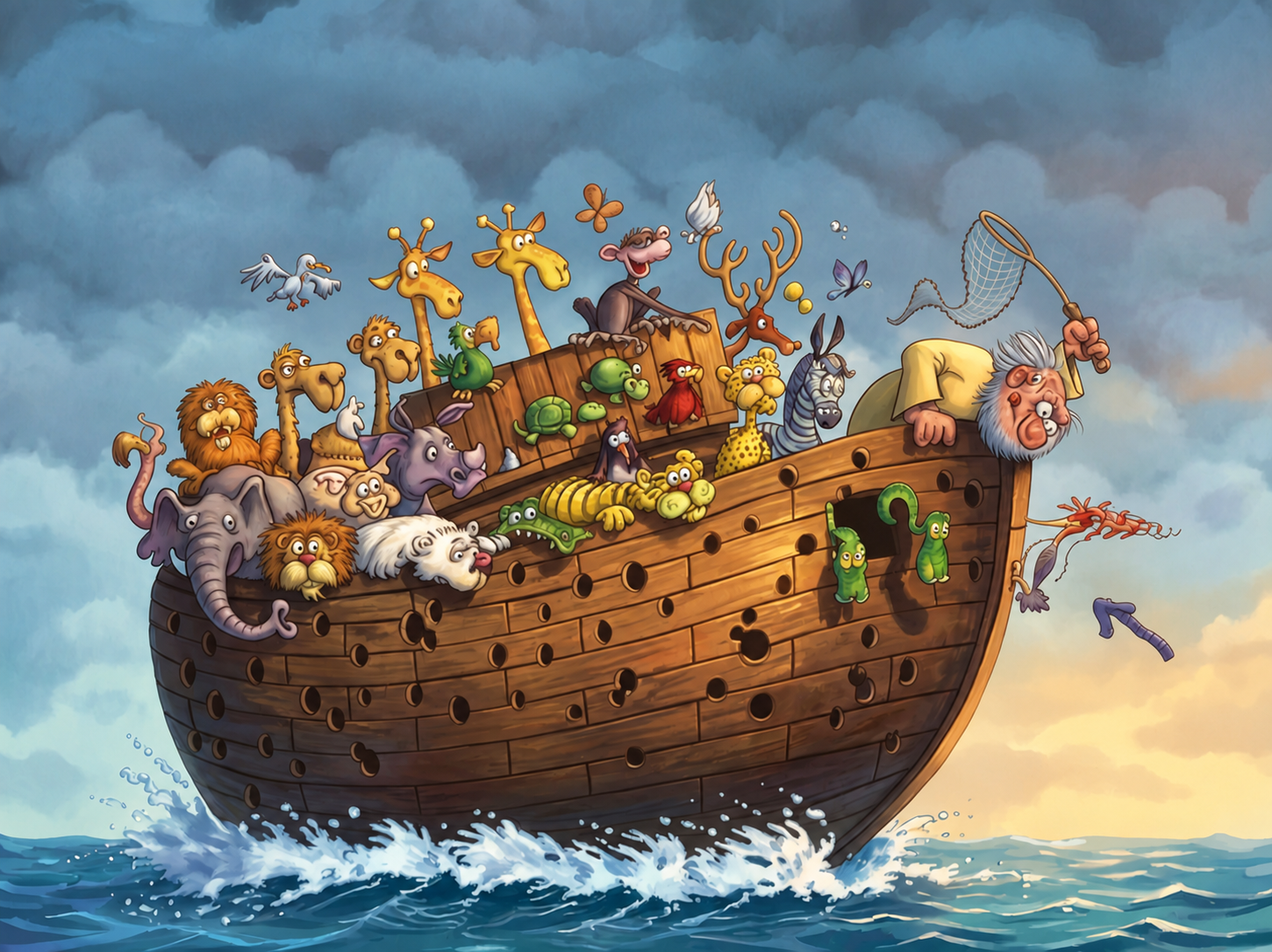
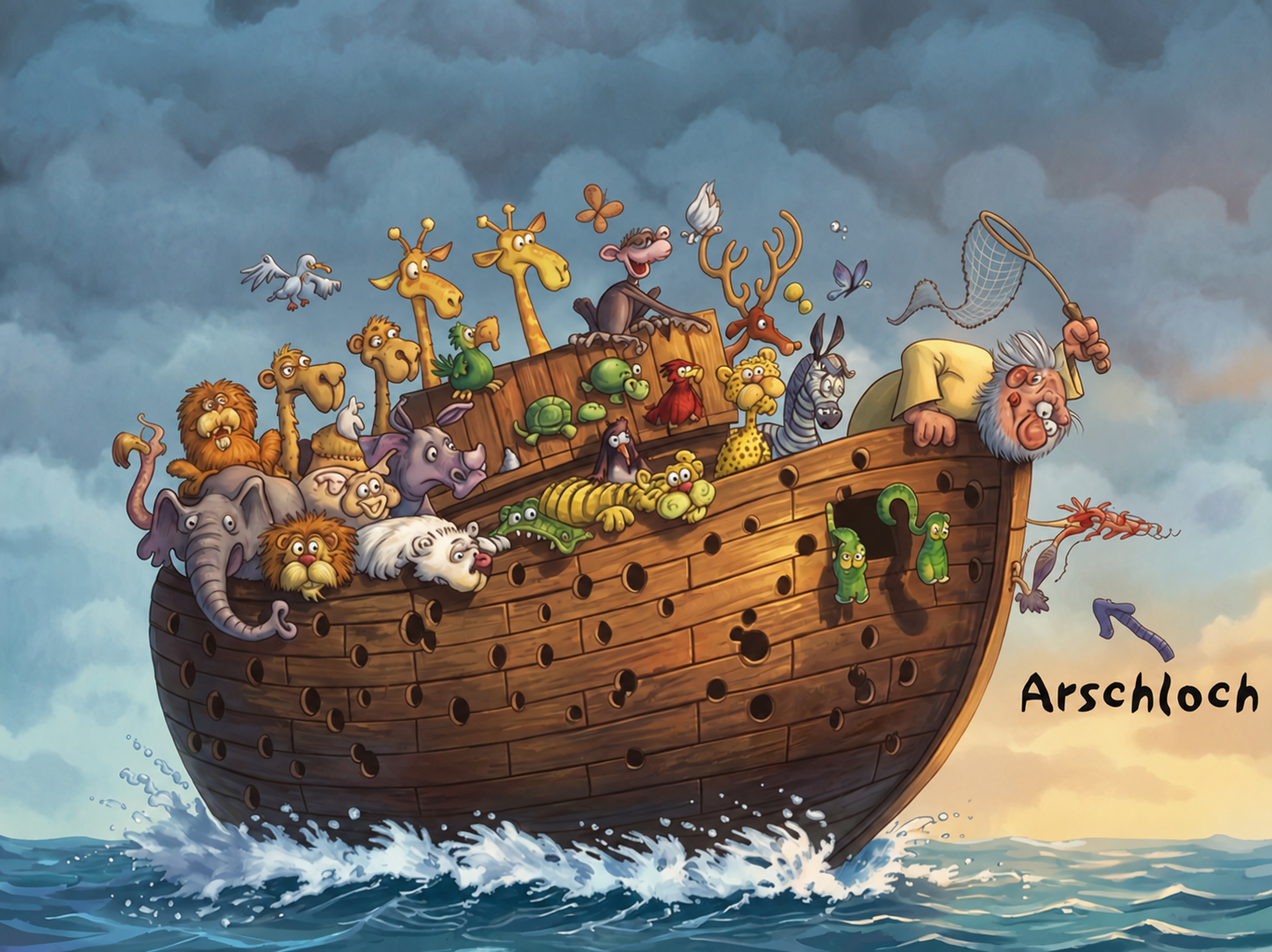
Restore ark punchline label

diff --git a/index.html b/index.html
@@ -3,6 +3,6 @@
 <link rel="canonical" href="https://realfunk.de/"><meta name="description" content="Politische Satire, fast so witzig wie Politiker. Aber gratis."><meta property="og:type" content="website"><meta property="og:title" content="RealFunk — Politische Satire"><meta property="og:description" content="Politische Satire, fast so witzig wie Politiker. Aber gratis."><meta property="og:url" content="https://realfunk.de/"><meta property="og:image" content="https://realfunk.de/images/20260911-babler-neue-wirklichkeit-hero.png"><meta name="twitter:card" content="summary_large_image"></head><body><header class="rf-header"><a class="rf-logo" href="index.html" aria-label="RealFunk Startseite">Real<span aria-hidden="true">◉</span>Funk</a><nav class="rf-nav" aria-label="Hauptnavigation"><a href="index.html#top">TOP THEMEN</a><a href="index.html#mehr">MEHR</a><a href="index.html#meldungen">MELDUNGEN</a><a href="archiv.html">ARCHIV</a><a class="rf-support" href="unterstuetzen.html">UNTERSTÜTZEN</a></nav></header>
 
 
-<main><section class="hero" id="top"><img src="images/20260911-babler-neue-wirklichkeit-hero.png" alt="KI-Satire: Andreas Babler als Kleinkind spielt vor einem Weihnachtsbaum mit einer ORF-Miniaturbühne und applaudierenden Spielfiguren"><div class="hero-copy"><span class="eyebrow">Top-Themen / Österreich</span><h1 id="hero-title">Endlich in Planung: Österreichs neue Wirklichkeit</h1><p>Der ORF soll eine „gemeinsame Wirklichkeit“ herstellen. Medienminister Andreas Babler hat bereits erklärt, wie sie aussehen soll.</p><span class="link" aria-hidden="true">Zum Artikel ↗</span></div><a class="hero-full-link" href="artikel/bablers-neue-wirklichkeit.html" aria-labelledby="hero-title"></a><div class="hero-switch" hidden><button type="button" data-hero-prev aria-label="Vorheriges Top-Thema">←</button><span data-hero-position></span><button type="button" data-hero-next aria-label="Nächstes Top-Thema">→</button></div><script type="application/json" id="hero-rotation-data">[{"file": "bablers-neue-wirklichkeit.html", "kick": "Österreich", "ttl": "Endlich in Planung: Österreichs neue Wirklichkeit", "img": "20260911-babler-neue-wirklichkeit-hero.png", "alt": "KI-Satire: Andreas Babler als Kleinkind spielt vor einem Weihnachtsbaum mit einer ORF-Miniaturbühne und applaudierenden Spielfiguren", "subtitle": "Der ORF soll eine „gemeinsame Wirklichkeit“ herstellen. Medienminister Andreas Babler hat bereits erklärt, wie sie aussehen soll."}, {"file": "cdu-insider-packt-aus.html", "kick": "Deutschland", "ttl": "EXKLUSIV: Ein CDU-Insider packt aus", "img": "20260910-merz-cdu-insider.jpg", "alt": "Friedrich Merz spricht am Rednerpult des Deutschen Bundestages", "subtitle": "Ein CDU-Insider hat RealFunk ein vertrauliches Paket zugespielt. Darin befindet sich nicht nur eine bislang unveröffentlichte Videosequenz aus Friedrich Merz’ Bundestagsrede vom 9. September, sondern auch das streng geheime interne Presse- und Kommunikationskit der CDU. Wir veröffentlichen beides exklusiv."}, {"file": "pisa-beweist-politik-wirkt.html", "kick": "Deutschland", "ttl": "PISA beweist: Politik wirkt", "img": "20260909-pisa-politik-wirkt.png", "alt": "KI-Satire: Ein Lehrer erklärt einer Schulklasse mit Tablets, ihre letzte Hoffnung sei künstliche Intelligenz", "subtitle": "Deutschland erreicht neue Bildungstiefstwerte. Die Politik reagiert."}]</script></section><section class="small-heroes" aria-label="Weitere Top-Themen"><a class="mini-hero" href="artikel/cdu-insider-packt-aus.html"><img src="images/20260910-merz-cdu-insider.jpg" alt="Friedrich Merz spricht am Rednerpult des Deutschen Bundestages" loading="lazy"><div><span>Deutschland</span><h2>EXKLUSIV: Ein CDU-Insider packt aus</h2></div></a><a class="mini-hero" href="artikel/pisa-beweist-politik-wirkt.html"><img src="images/20260909-pisa-politik-wirkt.png" alt="KI-Satire: Ein Lehrer erklärt einer Schulklasse mit Tablets, ihre letzte Hoffnung sei künstliche Intelligenz" loading="lazy"><div><span>Deutschland</span><h2>PISA beweist: Politik wirkt</h2></div></a><a class="mini-hero" href="artikel/von-der-leyen-fordert-neuwahl.html"><img src="images/20260907vonderleyen-neuwahl.png" alt="KI-Satire: Ursula von der Leyen entreißt dem verblüfften Ulrich Siegmund auf einer AfD-Wahlparty den Siegerblumenstrauß" loading="lazy"><div><span>EU</span><h2>Von der Leyen fordert Neuwahl</h2></div></a><a class="mini-hero" href="artikel/spahn-schmeisst-den-haushalt.html"><img src="images/20260906spahn-haushalt.png" alt="KI-Satire: Jens Spahn steht mit Schürze und Mehl unter der Nase in einer Küche" loading="lazy"><div><span>Deutschland</span><h2>Spahn schmeißt den Haushalt</h2></div></a></section><section class="more-grid-section" id="mehr"><div class="section-head"><h2>Mehr RealFunk</h2><p>Lesen, ausprobieren, ansehen.</p></div><div class="format-tiles"><a class="format-tile lex-tile" href="lexikon.html" target="_blank" rel="noopener"><div class="lex-image"><img src="images/merz-gebrochene-versprechen.jpg" alt="KI-Satire: Friedrich Merz als Wahrheitsfritz mit langer Pinocchio-Nase"><span>KI-SATIRE</span></div><div class="tile-copy"><span class="eyebrow">Satire · Interaktiv</span><h3>Das Politikerlexikon</h3><p>Politische Sprüche. Direkt in Klartext übersetzt.</p><span class="tile-cta">Übersetzer ausprobieren →</span></div></a><a class="format-tile daily-picture-tile" href="bild-des-tages/2026-09-12-vollstaendig-besetzt.html" target="_blank" rel="noopener"><img src="images/bild-des-tages-arche-vollstaendig-besetzt.png" alt="Cartoon: Eine Arche voller Tiere fährt über das Meer; am Bug hängt ein Mann mit einem Kescher" loading="lazy"><div class="tile-copy"><span class="eyebrow">Bild des Tages</span><h3>Vollständig besetzt</h3><p>Auch die Arche hatte offenbar keine strengere Passagierkontrolle.</p><span class="tile-cta">Bild ansehen →</span></div></a><a class="format-tile" href="stempelautomat.html" target="_blank" rel="noopener"><img src="images/stempelautomat-og.jpg" alt="Der Ben-Stempelautomat" loading="lazy"><div class="tile-copy"><span class="eyebrow">Satire · Interaktiv</span><h3>Der Ben-Stempelautomat</h3><p>Knopf drücken. Ben stempeln. Originalwortlaut prüfen.</p><span class="tile-cta">Ausprobieren →</span></div></a><a class="format-tile" href="satirevideo.html" target="_blank" rel="noopener"><img src="images/satirevideo-poster.jpg" alt="Satirevideo der Woche" loading="lazy"><div class="tile-copy"><span class="eyebrow">Satire · KI-Video</span><h3>Satirevideo der Woche</h3><p>Der „anonyme Insider“ aus dem Kanzleramt. Natürlich verfremdet.</p><span class="tile-cta">Ansehen →</span></div></a></div></section><section class="top-stories" id="meldungen"><div class="section-head"><h2>Meldungen</h2><p>Weitere Meldungen aus den Ressorts.</p></div><div class="story-list"><a href="artikel/experten-warnen-vor-weniger-problemen.html"><span class="story-topic">Deutschland</span><strong>Experten warnen vor weniger Problemen</strong><time datetime="2026-09-06">06.09.2026</time><span aria-hidden="true">↗</span></a><a href="artikel/von-der-leyen-gemeinschaftskonto.html"><span class="story-topic">EU</span><strong>Von der Leyen macht jedes Konto zum Gemeinschaftskonto</strong><time datetime="2026-09-01">01.09.2026</time><span aria-hidden="true">↗</span></a><a href="artikel/microsoft-trennt-oerr-diagramme-von-zahlen.html"><span class="story-topic">ÖRR</span><strong>ÖRR PlugIn trennt Diagramme von Zahlen</strong><time datetime="2026-09-04">04.09.2026</time><span aria-hidden="true">↗</span></a><a href="artikel/derad-13-millionen-spaeter.html"><span class="story-topic">Österreich</span><strong>1,3 Millionen später</strong><time datetime="2026-08-29">29.08.2026</time><span aria-hidden="true">↗</span></a><a href="artikel/das-letzte-wort-hat-der-richter.html"><span class="story-topic">Ausland</span><strong>Wer klagt, bleibt länger</strong><time datetime="2026-07-11">11.07.2026</time><span aria-hidden="true">↗</span></a><a href="artikel/wie-exakt-sind-umfragen.html"><span class="story-topic">Durchschaut</span><strong>Wie exakt sind Umfragen?</strong><time datetime="2026-08-28">28.08.2026</time><span aria-hidden="true">↗</span></a><a href="artikel/operation-360-grad.html"><span class="story-topic">Kurzartikel</span><strong>Operation 360 Grad*</strong><time datetime="2026-08-25">25.08.2026</time><span aria-hidden="true">↗</span></a></div></section></main>
+<main><section class="hero" id="top"><img src="images/20260911-babler-neue-wirklichkeit-hero.png" alt="KI-Satire: Andreas Babler als Kleinkind spielt vor einem Weihnachtsbaum mit einer ORF-Miniaturbühne und applaudierenden Spielfiguren"><div class="hero-copy"><span class="eyebrow">Top-Themen / Österreich</span><h1 id="hero-title">Endlich in Planung: Österreichs neue Wirklichkeit</h1><p>Der ORF soll eine „gemeinsame Wirklichkeit“ herstellen. Medienminister Andreas Babler hat bereits erklärt, wie sie aussehen soll.</p><span class="link" aria-hidden="true">Zum Artikel ↗</span></div><a class="hero-full-link" href="artikel/bablers-neue-wirklichkeit.html" aria-labelledby="hero-title"></a><div class="hero-switch" hidden><button type="button" data-hero-prev aria-label="Vorheriges Top-Thema">←</button><span data-hero-position></span><button type="button" data-hero-next aria-label="Nächstes Top-Thema">→</button></div><script type="application/json" id="hero-rotation-data">[{"file": "bablers-neue-wirklichkeit.html", "kick": "Österreich", "ttl": "Endlich in Planung: Österreichs neue Wirklichkeit", "img": "20260911-babler-neue-wirklichkeit-hero.png", "alt": "KI-Satire: Andreas Babler als Kleinkind spielt vor einem Weihnachtsbaum mit einer ORF-Miniaturbühne und applaudierenden Spielfiguren", "subtitle": "Der ORF soll eine „gemeinsame Wirklichkeit“ herstellen. Medienminister Andreas Babler hat bereits erklärt, wie sie aussehen soll."}, {"file": "cdu-insider-packt-aus.html", "kick": "Deutschland", "ttl": "EXKLUSIV: Ein CDU-Insider packt aus", "img": "20260910-merz-cdu-insider.jpg", "alt": "Friedrich Merz spricht am Rednerpult des Deutschen Bundestages", "subtitle": "Ein CDU-Insider hat RealFunk ein vertrauliches Paket zugespielt. Darin befindet sich nicht nur eine bislang unveröffentlichte Videosequenz aus Friedrich Merz’ Bundestagsrede vom 9. September, sondern auch das streng geheime interne Presse- und Kommunikationskit der CDU. Wir veröffentlichen beides exklusiv."}, {"file": "pisa-beweist-politik-wirkt.html", "kick": "Deutschland", "ttl": "PISA beweist: Politik wirkt", "img": "20260909-pisa-politik-wirkt.png", "alt": "KI-Satire: Ein Lehrer erklärt einer Schulklasse mit Tablets, ihre letzte Hoffnung sei künstliche Intelligenz", "subtitle": "Deutschland erreicht neue Bildungstiefstwerte. Die Politik reagiert."}]</script></section><section class="small-heroes" aria-label="Weitere Top-Themen"><a class="mini-hero" href="artikel/cdu-insider-packt-aus.html"><img src="images/20260910-merz-cdu-insider.jpg" alt="Friedrich Merz spricht am Rednerpult des Deutschen Bundestages" loading="lazy"><div><span>Deutschland</span><h2>EXKLUSIV: Ein CDU-Insider packt aus</h2></div></a><a class="mini-hero" href="artikel/pisa-beweist-politik-wirkt.html"><img src="images/20260909-pisa-politik-wirkt.png" alt="KI-Satire: Ein Lehrer erklärt einer Schulklasse mit Tablets, ihre letzte Hoffnung sei künstliche Intelligenz" loading="lazy"><div><span>Deutschland</span><h2>PISA beweist: Politik wirkt</h2></div></a><a class="mini-hero" href="artikel/von-der-leyen-fordert-neuwahl.html"><img src="images/20260907vonderleyen-neuwahl.png" alt="KI-Satire: Ursula von der Leyen entreißt dem verblüfften Ulrich Siegmund auf einer AfD-Wahlparty den Siegerblumenstrauß" loading="lazy"><div><span>EU</span><h2>Von der Leyen fordert Neuwahl</h2></div></a><a class="mini-hero" href="artikel/spahn-schmeisst-den-haushalt.html"><img src="images/20260906spahn-haushalt.png" alt="KI-Satire: Jens Spahn steht mit Schürze und Mehl unter der Nase in einer Küche" loading="lazy"><div><span>Deutschland</span><h2>Spahn schmeißt den Haushalt</h2></div></a></section><section class="more-grid-section" id="mehr"><div class="section-head"><h2>Mehr RealFunk</h2><p>Lesen, ausprobieren, ansehen.</p></div><div class="format-tiles"><a class="format-tile lex-tile" href="lexikon.html" target="_blank" rel="noopener"><div class="lex-image"><img src="images/merz-gebrochene-versprechen.jpg" alt="KI-Satire: Friedrich Merz als Wahrheitsfritz mit langer Pinocchio-Nase"><span>KI-SATIRE</span></div><div class="tile-copy"><span class="eyebrow">Satire · Interaktiv</span><h3>Das Politikerlexikon</h3><p>Politische Sprüche. Direkt in Klartext übersetzt.</p><span class="tile-cta">Übersetzer ausprobieren →</span></div></a><a class="format-tile daily-picture-tile" href="bild-des-tages/2026-09-12-vollstaendig-besetzt.html" target="_blank" rel="noopener"><img src="images/bild-des-tages-arche-vollstaendig-besetzt.png" alt="Cartoon: Eine Arche voller Tiere fährt über das Meer; am Bug hängt ein Mann mit einem Kescher, der mit dem Wort Arschloch markiert ist" loading="lazy"><div class="tile-copy"><span class="eyebrow">Bild des Tages</span><h3>Vollständig besetzt</h3><p>Auch die Arche hatte offenbar keine strengere Passagierkontrolle.</p><span class="tile-cta">Bild ansehen →</span></div></a><a class="format-tile" href="stempelautomat.html" target="_blank" rel="noopener"><img src="images/stempelautomat-og.jpg" alt="Der Ben-Stempelautomat" loading="lazy"><div class="tile-copy"><span class="eyebrow">Satire · Interaktiv</span><h3>Der Ben-Stempelautomat</h3><p>Knopf drücken. Ben stempeln. Originalwortlaut prüfen.</p><span class="tile-cta">Ausprobieren →</span></div></a><a class="format-tile" href="satirevideo.html" target="_blank" rel="noopener"><img src="images/satirevideo-poster.jpg" alt="Satirevideo der Woche" loading="lazy"><div class="tile-copy"><span class="eyebrow">Satire · KI-Video</span><h3>Satirevideo der Woche</h3><p>Der „anonyme Insider“ aus dem Kanzleramt. Natürlich verfremdet.</p><span class="tile-cta">Ansehen →</span></div></a></div></section><section class="top-stories" id="meldungen"><div class="section-head"><h2>Meldungen</h2><p>Weitere Meldungen aus den Ressorts.</p></div><div class="story-list"><a href="artikel/experten-warnen-vor-weniger-problemen.html"><span class="story-topic">Deutschland</span><strong>Experten warnen vor weniger Problemen</strong><time datetime="2026-09-06">06.09.2026</time><span aria-hidden="true">↗</span></a><a href="artikel/von-der-leyen-gemeinschaftskonto.html"><span class="story-topic">EU</span><strong>Von der Leyen macht jedes Konto zum Gemeinschaftskonto</strong><time datetime="2026-09-01">01.09.2026</time><span aria-hidden="true">↗</span></a><a href="artikel/microsoft-trennt-oerr-diagramme-von-zahlen.html"><span class="story-topic">ÖRR</span><strong>ÖRR PlugIn trennt Diagramme von Zahlen</strong><time datetime="2026-09-04">04.09.2026</time><span aria-hidden="true">↗</span></a><a href="artikel/derad-13-millionen-spaeter.html"><span class="story-topic">Österreich</span><strong>1,3 Millionen später</strong><time datetime="2026-08-29">29.08.2026</time><span aria-hidden="true">↗</span></a><a href="artikel/das-letzte-wort-hat-der-richter.html"><span class="story-topic">Ausland</span><strong>Wer klagt, bleibt länger</strong><time datetime="2026-07-11">11.07.2026</time><span aria-hidden="true">↗</span></a><a href="artikel/wie-exakt-sind-umfragen.html"><span class="story-topic">Durchschaut</span><strong>Wie exakt sind Umfragen?</strong><time datetime="2026-08-28">28.08.2026</time><span aria-hidden="true">↗</span></a><a href="artikel/operation-360-grad.html"><span class="story-topic">Kurzartikel</span><strong>Operation 360 Grad*</strong><time datetime="2026-08-25">25.08.2026</time><span aria-hidden="true">↗</span></a></div></section></main>
 <footer class="rf-footer"><div><a class="rf-logo" href="index.html">Real<span>◉</span>Funk</a><p>Politische Satire, fast so witzig wie Politiker. Aber gratis.</p></div><nav aria-label="Weitere Informationen"><a href="ueber-realfunk.html">Über RealFunk</a><a href="impressum.html">Impressum</a><a href="datenschutz.html">Datenschutz</a><a href="feed.xml">RSS</a></nav></footer><!-- Cloudflare Web Analytics --><script defer src="https://static.cloudflareinsights.com/beacon.min.js" data-cf-beacon='{"token":"a017662ec0e94031a498c6b772dc7271"}'></script><!-- End Cloudflare Web Analytics -->
 <script defer src="hero-rotation.js?v=20260911-three"></script></body></html>

diff --git a/bild-des-tages/2026-09-12-vollstaendig-besetzt.html b/bild-des-tages/2026-09-12-vollstaendig-besetzt.html
@@ -1,2 +1,2 @@
-<!doctype html><html lang="de"><head><meta charset="utf-8"><meta name="viewport" content="width=device-width,initial-scale=1"><title>Vollständig besetzt. — Bild des Tages — RealFunk</title><link rel="stylesheet" href="../magazin.css"><link rel="stylesheet" href="../bild-des-tages.css?v=20260909"><link rel="stylesheet" href="../realfunk-shell.css?v=20260908"><link rel="canonical" href="https://realfunk.de/bild-des-tages/2026-09-12-vollstaendig-besetzt.html"><link rel="prev" href="https://realfunk.de/bild-des-tages/2026-09-09-sondervermoegen-beim-notar.html"><meta name="description" content="Auch die Arche hatte offenbar keine strengere Passagierkontrolle."><meta property="og:type" content="article"><meta property="og:title" content="Vollständig besetzt. — Bild des Tages"><meta property="og:description" content="Auch die Arche hatte offenbar keine strengere Passagierkontrolle."><meta property="og:url" content="https://realfunk.de/bild-des-tages/2026-09-12-vollstaendig-besetzt.html"><meta property="og:image" content="https://realfunk.de/images/bild-des-tages-arche-vollstaendig-besetzt.png"><meta name="twitter:card" content="summary_large_image"><meta name="twitter:title" content="Vollständig besetzt. — Bild des Tages"><meta name="twitter:description" content="Auch die Arche hatte offenbar keine strengere Passagierkontrolle."><meta name="twitter:image" content="https://realfunk.de/images/bild-des-tages-arche-vollstaendig-besetzt.png"><link rel="stylesheet" href="../realfunk-share.css?v=1"></head><body class="subpage"><header class="rf-header"><a class="rf-logo" href="../index.html" aria-label="RealFunk Startseite">Real<span aria-hidden="true">◉</span>Funk</a><nav class="rf-nav" aria-label="Hauptnavigation"><a href="../index.html#top">TOP THEMEN</a><a href="../index.html#mehr">MEHR</a><a href="../index.html#meldungen">MELDUNGEN</a><a href="../archiv.html">ARCHIV</a><a class="rf-support" href="../unterstuetzen.html">UNTERSTÜTZEN</a></nav></header><main class="daily-picture daily-detail"><div class="daily-heading"><a href="../bild-des-tages.html">← Alle Bilder des Tages</a><span class="eyebrow">BILD DES TAGES · 12.09.2026</span><h1>Vollständig besetzt.</h1><div class="rf-share" aria-label="Seite teilen"><strong>Teilen</strong><button type="button" data-native-share hidden>Teilen …</button><a href="https://api.whatsapp.com/send?text=Vollst%C3%A4ndig%20besetzt.%20%E2%80%94%20Bild%20des%20Tages%20https%3A%2F%2Frealfunk.de%2Fbild-des-tages%2F2026-09-12-vollstaendig-besetzt.html" target="_blank" rel="noopener noreferrer">WhatsApp</a><a href="https://twitter.com/intent/tweet?text=Vollst%C3%A4ndig%20besetzt.%20%E2%80%94%20Bild%20des%20Tages&amp;url=https%3A%2F%2Frealfunk.de%2Fbild-des-tages%2F2026-09-12-vollstaendig-besetzt.html" target="_blank" rel="noopener noreferrer">X</a><a href="https://www.facebook.com/sharer/sharer.php?u=https%3A%2F%2Frealfunk.de%2Fbild-des-tages%2F2026-09-12-vollstaendig-besetzt.html" target="_blank" rel="noopener noreferrer">Facebook</a><a href="mailto:?subject=Vollst%C3%A4ndig%20besetzt.%20%E2%80%94%20Bild%20des%20Tages&amp;body=https%3A%2F%2Frealfunk.de%2Fbild-des-tages%2F2026-09-12-vollstaendig-besetzt.html">E-Mail</a><button type="button" data-copy-share>Link kopieren</button><span role="status" data-share-status></span></div></div><figure><div class="daily-image-frame"><img src="../images/bild-des-tages-arche-vollstaendig-besetzt.png" alt="Cartoon: Eine Arche voller Tiere fährt über das Meer; am Bug hängt ein Mann mit einem Kescher"></div><figcaption><span class="eyebrow">DER REALFUNK-KOMMENTAR</span><p>Egal wo du bist, es gibt immer ein Arschloch.</p><p class="daily-punchline">Aus eigentlich immer aktuellem Anlass...</p><small>Zugesandte Illustration · KI-Retusche: RealFunk.</small></figcaption></figure><nav class="daily-sequence" aria-label="Zwischen den Bildern des Tages wechseln"><a class="daily-nav-card daily-nav-older" href="2026-09-09-sondervermoegen-beim-notar.html"><small>← Älter · 09.09.2026</small><strong>Ein beachtliches Sondervermögen.</strong></a><a class="daily-nav-all" href="../bild-des-tages.html">Alle Bilder</a><span class="daily-nav-card is-disabled" aria-disabled="true"><small>Jünger</small><strong>Ende der Reihe</strong></span></nav></main><footer class="rf-footer"><div><a class="rf-logo" href="../index.html">Real<span>◉</span>Funk</a><p>Politische Satire, fast so witzig wie Politiker. Aber gratis.</p></div><nav aria-label="Weitere Informationen"><a href="../ueber-realfunk.html">Über RealFunk</a><a href="../impressum.html">Impressum</a><a href="../datenschutz.html">Datenschutz</a><a href="../feed.xml">RSS</a></nav></footer><script defer src="../realfunk-share.js?v=1"></script><!-- Cloudflare Web Analytics --><script defer src="https://static.cloudflareinsights.com/beacon.min.js" data-cf-beacon='{"token":"a017662ec0e94031a498c6b772dc7271"}'></script><!-- End Cloudflare Web Analytics -->
+<!doctype html><html lang="de"><head><meta charset="utf-8"><meta name="viewport" content="width=device-width,initial-scale=1"><title>Vollständig besetzt. — Bild des Tages — RealFunk</title><link rel="stylesheet" href="../magazin.css"><link rel="stylesheet" href="../bild-des-tages.css?v=20260909"><link rel="stylesheet" href="../realfunk-shell.css?v=20260908"><link rel="canonical" href="https://realfunk.de/bild-des-tages/2026-09-12-vollstaendig-besetzt.html"><link rel="prev" href="https://realfunk.de/bild-des-tages/2026-09-09-sondervermoegen-beim-notar.html"><meta name="description" content="Auch die Arche hatte offenbar keine strengere Passagierkontrolle."><meta property="og:type" content="article"><meta property="og:title" content="Vollständig besetzt. — Bild des Tages"><meta property="og:description" content="Auch die Arche hatte offenbar keine strengere Passagierkontrolle."><meta property="og:url" content="https://realfunk.de/bild-des-tages/2026-09-12-vollstaendig-besetzt.html"><meta property="og:image" content="https://realfunk.de/images/bild-des-tages-arche-vollstaendig-besetzt.png"><meta name="twitter:card" content="summary_large_image"><meta name="twitter:title" content="Vollständig besetzt. — Bild des Tages"><meta name="twitter:description" content="Auch die Arche hatte offenbar keine strengere Passagierkontrolle."><meta name="twitter:image" content="https://realfunk.de/images/bild-des-tages-arche-vollstaendig-besetzt.png"><link rel="stylesheet" href="../realfunk-share.css?v=1"></head><body class="subpage"><header class="rf-header"><a class="rf-logo" href="../index.html" aria-label="RealFunk Startseite">Real<span aria-hidden="true">◉</span>Funk</a><nav class="rf-nav" aria-label="Hauptnavigation"><a href="../index.html#top">TOP THEMEN</a><a href="../index.html#mehr">MEHR</a><a href="../index.html#meldungen">MELDUNGEN</a><a href="../archiv.html">ARCHIV</a><a class="rf-support" href="../unterstuetzen.html">UNTERSTÜTZEN</a></nav></header><main class="daily-picture daily-detail"><div class="daily-heading"><a href="../bild-des-tages.html">← Alle Bilder des Tages</a><span class="eyebrow">BILD DES TAGES · 12.09.2026</span><h1>Vollständig besetzt.</h1><div class="rf-share" aria-label="Seite teilen"><strong>Teilen</strong><button type="button" data-native-share hidden>Teilen …</button><a href="https://api.whatsapp.com/send?text=Vollst%C3%A4ndig%20besetzt.%20%E2%80%94%20Bild%20des%20Tages%20https%3A%2F%2Frealfunk.de%2Fbild-des-tages%2F2026-09-12-vollstaendig-besetzt.html" target="_blank" rel="noopener noreferrer">WhatsApp</a><a href="https://twitter.com/intent/tweet?text=Vollst%C3%A4ndig%20besetzt.%20%E2%80%94%20Bild%20des%20Tages&amp;url=https%3A%2F%2Frealfunk.de%2Fbild-des-tages%2F2026-09-12-vollstaendig-besetzt.html" target="_blank" rel="noopener noreferrer">X</a><a href="https://www.facebook.com/sharer/sharer.php?u=https%3A%2F%2Frealfunk.de%2Fbild-des-tages%2F2026-09-12-vollstaendig-besetzt.html" target="_blank" rel="noopener noreferrer">Facebook</a><a href="mailto:?subject=Vollst%C3%A4ndig%20besetzt.%20%E2%80%94%20Bild%20des%20Tages&amp;body=https%3A%2F%2Frealfunk.de%2Fbild-des-tages%2F2026-09-12-vollstaendig-besetzt.html">E-Mail</a><button type="button" data-copy-share>Link kopieren</button><span role="status" data-share-status></span></div></div><figure><div class="daily-image-frame"><img src="../images/bild-des-tages-arche-vollstaendig-besetzt.png" alt="Cartoon: Eine Arche voller Tiere fährt über das Meer; am Bug hängt ein Mann mit einem Kescher, der mit dem Wort Arschloch markiert ist"></div><figcaption><span class="eyebrow">DER REALFUNK-KOMMENTAR</span><p>Egal wo du bist, es gibt immer ein Arschloch.</p><p class="daily-punchline">Aus eigentlich immer aktuellem Anlass...</p><small>Zugesandte Illustration · KI-Retusche: RealFunk.</small></figcaption></figure><nav class="daily-sequence" aria-label="Zwischen den Bildern des Tages wechseln"><a class="daily-nav-card daily-nav-older" href="2026-09-09-sondervermoegen-beim-notar.html"><small>← Älter · 09.09.2026</small><strong>Ein beachtliches Sondervermögen.</strong></a><a class="daily-nav-all" href="../bild-des-tages.html">Alle Bilder</a><span class="daily-nav-card is-disabled" aria-disabled="true"><small>Jünger</small><strong>Ende der Reihe</strong></span></nav></main><footer class="rf-footer"><div><a class="rf-logo" href="../index.html">Real<span>◉</span>Funk</a><p>Politische Satire, fast so witzig wie Politiker. Aber gratis.</p></div><nav aria-label="Weitere Informationen"><a href="../ueber-realfunk.html">Über RealFunk</a><a href="../impressum.html">Impressum</a><a href="../datenschutz.html">Datenschutz</a><a href="../feed.xml">RSS</a></nav></footer><script defer src="../realfunk-share.js?v=1"></script><!-- Cloudflare Web Analytics --><script defer src="https://static.cloudflareinsights.com/beacon.min.js" data-cf-beacon='{"token":"a017662ec0e94031a498c6b772dc7271"}'></script><!-- End Cloudflare Web Analytics -->
 </body></html>

diff --git a/bild-des-tages.html b/bild-des-tages.html
@@ -1,2 +1,2 @@
-<!doctype html><html lang="de"><head><meta charset="utf-8"><meta name="viewport" content="width=device-width,initial-scale=1"><title>Bild des Tages — RealFunk</title><link rel="stylesheet" href="magazin.css"><link rel="stylesheet" href="bild-des-tages.css?v=20260909"><link rel="stylesheet" href="realfunk-shell.css?v=20260908"><link rel="canonical" href="https://realfunk.de/bild-des-tages.html"><meta name="description" content="Politische Cartoons, Fundstücke und Satirebilder aus dem RealFunk-Archiv."><meta property="og:type" content="website"><meta property="og:title" content="Bild des Tages — RealFunk"><meta property="og:description" content="Politische Cartoons, Fundstücke und Satirebilder aus dem RealFunk-Archiv."><meta property="og:url" content="https://realfunk.de/bild-des-tages.html"><meta property="og:image" content="https://realfunk.de/images/bild-des-tages-arche-vollstaendig-besetzt.png"><meta name="twitter:card" content="summary_large_image"><meta name="twitter:title" content="Bild des Tages — RealFunk"><meta name="twitter:description" content="Politische Cartoons, Fundstücke und Satirebilder aus dem RealFunk-Archiv."><meta name="twitter:image" content="https://realfunk.de/images/bild-des-tages-arche-vollstaendig-besetzt.png"></head><body class="subpage"><header class="rf-header"><a class="rf-logo" href="index.html" aria-label="RealFunk Startseite">Real<span aria-hidden="true">◉</span>Funk</a><nav class="rf-nav" aria-label="Hauptnavigation"><a href="index.html#top">TOP THEMEN</a><a href="index.html#mehr">MEHR</a><a href="index.html#meldungen">MELDUNGEN</a><a href="archiv.html">ARCHIV</a><a class="rf-support" href="unterstuetzen.html">UNTERSTÜTZEN</a></nav></header><main class="daily-archive"><div class="daily-archive-heading"><a href="index.html#mehr">← Mehr RealFunk</a><span class="eyebrow">REALFUNK-BILDERARCHIV</span><h1>Bild des Tages</h1><p>Durchklicken oder gezielt wiederfinden. Jedes Motiv behält seinen eigenen Link.</p><a class="daily-latest-link" href="bild-des-tages/2026-09-12-vollstaendig-besetzt.html">Zum neuesten Bild →</a></div><section class="daily-gallery" aria-label="Alle Bilder des Tages"><article class="daily-gallery-card"><a href="bild-des-tages/2026-09-12-vollstaendig-besetzt.html"><div class="daily-gallery-image"><img src="images/bild-des-tages-arche-vollstaendig-besetzt.png" alt="Cartoon: Eine Arche voller Tiere fährt über das Meer; am Bug hängt ein Mann mit einem Kescher" loading="lazy"></div><div class="daily-gallery-copy"><time datetime="2026-09-12">12.09.2026</time><h2>Vollständig besetzt.</h2><p>Auch die Arche hatte offenbar keine strengere Passagierkontrolle.</p><span>Ansehen →</span></div></a></article><article class="daily-gallery-card"><a href="bild-des-tages/2026-09-09-sondervermoegen-beim-notar.html"><div class="daily-gallery-image"><img src="images/bild-des-tages-sondervermoegen-notar.jpeg" alt="Cartoon: Zwei jubelnde Erben sitzen beim Notar, der ihnen ein beachtliches Sondervermögen ihres Vaters ankündigt" loading="lazy"></div><div class="daily-gallery-copy"><time datetime="2026-09-09">09.09.2026</time><h2>Ein beachtliches Sondervermögen.</h2><p>Der Nachlass ist größer als gedacht. Nur das Vorzeichen wurde politisch gelöst.</p><span>Ansehen →</span></div></a></article><article class="daily-gallery-card"><a href="bild-des-tages/2026-09-08-partnersuche-mit-brandmauer.html"><div class="daily-gallery-image"><img src="images/bild-des-tages-partnerwahl.jpeg" alt="Eine Person auf einer Einkaufsstraße trägt ein weißes T-Shirt mit der Aufschrift Kein Sex mit Nazis" loading="lazy"></div><div class="daily-gallery-copy"><time datetime="2026-09-08">08.09.2026</time><h2>Partnersuche mit Brandmauer.</h2><p>Auch privat werden Koalitionen jetzt schwieriger.</p><span>Ansehen →</span></div></a></article></section></main><footer class="rf-footer"><div><a class="rf-logo" href="index.html">Real<span>◉</span>Funk</a><p>Politische Satire, fast so witzig wie Politiker. Aber gratis.</p></div><nav aria-label="Weitere Informationen"><a href="ueber-realfunk.html">Über RealFunk</a><a href="impressum.html">Impressum</a><a href="datenschutz.html">Datenschutz</a><a href="feed.xml">RSS</a></nav></footer><!-- Cloudflare Web Analytics --><script defer src="https://static.cloudflareinsights.com/beacon.min.js" data-cf-beacon='{"token":"a017662ec0e94031a498c6b772dc7271"}'></script><!-- End Cloudflare Web Analytics -->
+<!doctype html><html lang="de"><head><meta charset="utf-8"><meta name="viewport" content="width=device-width,initial-scale=1"><title>Bild des Tages — RealFunk</title><link rel="stylesheet" href="magazin.css"><link rel="stylesheet" href="bild-des-tages.css?v=20260909"><link rel="stylesheet" href="realfunk-shell.css?v=20260908"><link rel="canonical" href="https://realfunk.de/bild-des-tages.html"><meta name="description" content="Politische Cartoons, Fundstücke und Satirebilder aus dem RealFunk-Archiv."><meta property="og:type" content="website"><meta property="og:title" content="Bild des Tages — RealFunk"><meta property="og:description" content="Politische Cartoons, Fundstücke und Satirebilder aus dem RealFunk-Archiv."><meta property="og:url" content="https://realfunk.de/bild-des-tages.html"><meta property="og:image" content="https://realfunk.de/images/bild-des-tages-arche-vollstaendig-besetzt.png"><meta name="twitter:card" content="summary_large_image"><meta name="twitter:title" content="Bild des Tages — RealFunk"><meta name="twitter:description" content="Politische Cartoons, Fundstücke und Satirebilder aus dem RealFunk-Archiv."><meta name="twitter:image" content="https://realfunk.de/images/bild-des-tages-arche-vollstaendig-besetzt.png"></head><body class="subpage"><header class="rf-header"><a class="rf-logo" href="index.html" aria-label="RealFunk Startseite">Real<span aria-hidden="true">◉</span>Funk</a><nav class="rf-nav" aria-label="Hauptnavigation"><a href="index.html#top">TOP THEMEN</a><a href="index.html#mehr">MEHR</a><a href="index.html#meldungen">MELDUNGEN</a><a href="archiv.html">ARCHIV</a><a class="rf-support" href="unterstuetzen.html">UNTERSTÜTZEN</a></nav></header><main class="daily-archive"><div class="daily-archive-heading"><a href="index.html#mehr">← Mehr RealFunk</a><span class="eyebrow">REALFUNK-BILDERARCHIV</span><h1>Bild des Tages</h1><p>Durchklicken oder gezielt wiederfinden. Jedes Motiv behält seinen eigenen Link.</p><a class="daily-latest-link" href="bild-des-tages/2026-09-12-vollstaendig-besetzt.html">Zum neuesten Bild →</a></div><section class="daily-gallery" aria-label="Alle Bilder des Tages"><article class="daily-gallery-card"><a href="bild-des-tages/2026-09-12-vollstaendig-besetzt.html"><div class="daily-gallery-image"><img src="images/bild-des-tages-arche-vollstaendig-besetzt.png" alt="Cartoon: Eine Arche voller Tiere fährt über das Meer; am Bug hängt ein Mann mit einem Kescher, der mit dem Wort Arschloch markiert ist" loading="lazy"></div><div class="daily-gallery-copy"><time datetime="2026-09-12">12.09.2026</time><h2>Vollständig besetzt.</h2><p>Auch die Arche hatte offenbar keine strengere Passagierkontrolle.</p><span>Ansehen →</span></div></a></article><article class="daily-gallery-card"><a href="bild-des-tages/2026-09-09-sondervermoegen-beim-notar.html"><div class="daily-gallery-image"><img src="images/bild-des-tages-sondervermoegen-notar.jpeg" alt="Cartoon: Zwei jubelnde Erben sitzen beim Notar, der ihnen ein beachtliches Sondervermögen ihres Vaters ankündigt" loading="lazy"></div><div class="daily-gallery-copy"><time datetime="2026-09-09">09.09.2026</time><h2>Ein beachtliches Sondervermögen.</h2><p>Der Nachlass ist größer als gedacht. Nur das Vorzeichen wurde politisch gelöst.</p><span>Ansehen →</span></div></a></article><article class="daily-gallery-card"><a href="bild-des-tages/2026-09-08-partnersuche-mit-brandmauer.html"><div class="daily-gallery-image"><img src="images/bild-des-tages-partnerwahl.jpeg" alt="Eine Person auf einer Einkaufsstraße trägt ein weißes T-Shirt mit der Aufschrift Kein Sex mit Nazis" loading="lazy"></div><div class="daily-gallery-copy"><time datetime="2026-09-08">08.09.2026</time><h2>Partnersuche mit Brandmauer.</h2><p>Auch privat werden Koalitionen jetzt schwieriger.</p><span>Ansehen →</span></div></a></article></section></main><footer class="rf-footer"><div><a class="rf-logo" href="index.html">Real<span>◉</span>Funk</a><p>Politische Satire, fast so witzig wie Politiker. Aber gratis.</p></div><nav aria-label="Weitere Informationen"><a href="ueber-realfunk.html">Über RealFunk</a><a href="impressum.html">Impressum</a><a href="datenschutz.html">Datenschutz</a><a href="feed.xml">RSS</a></nav></footer><!-- Cloudflare Web Analytics --><script defer src="https://static.cloudflareinsights.com/beacon.min.js" data-cf-beacon='{"token":"a017662ec0e94031a498c6b772dc7271"}'></script><!-- End Cloudflare Web Analytics -->
 </body></html>
